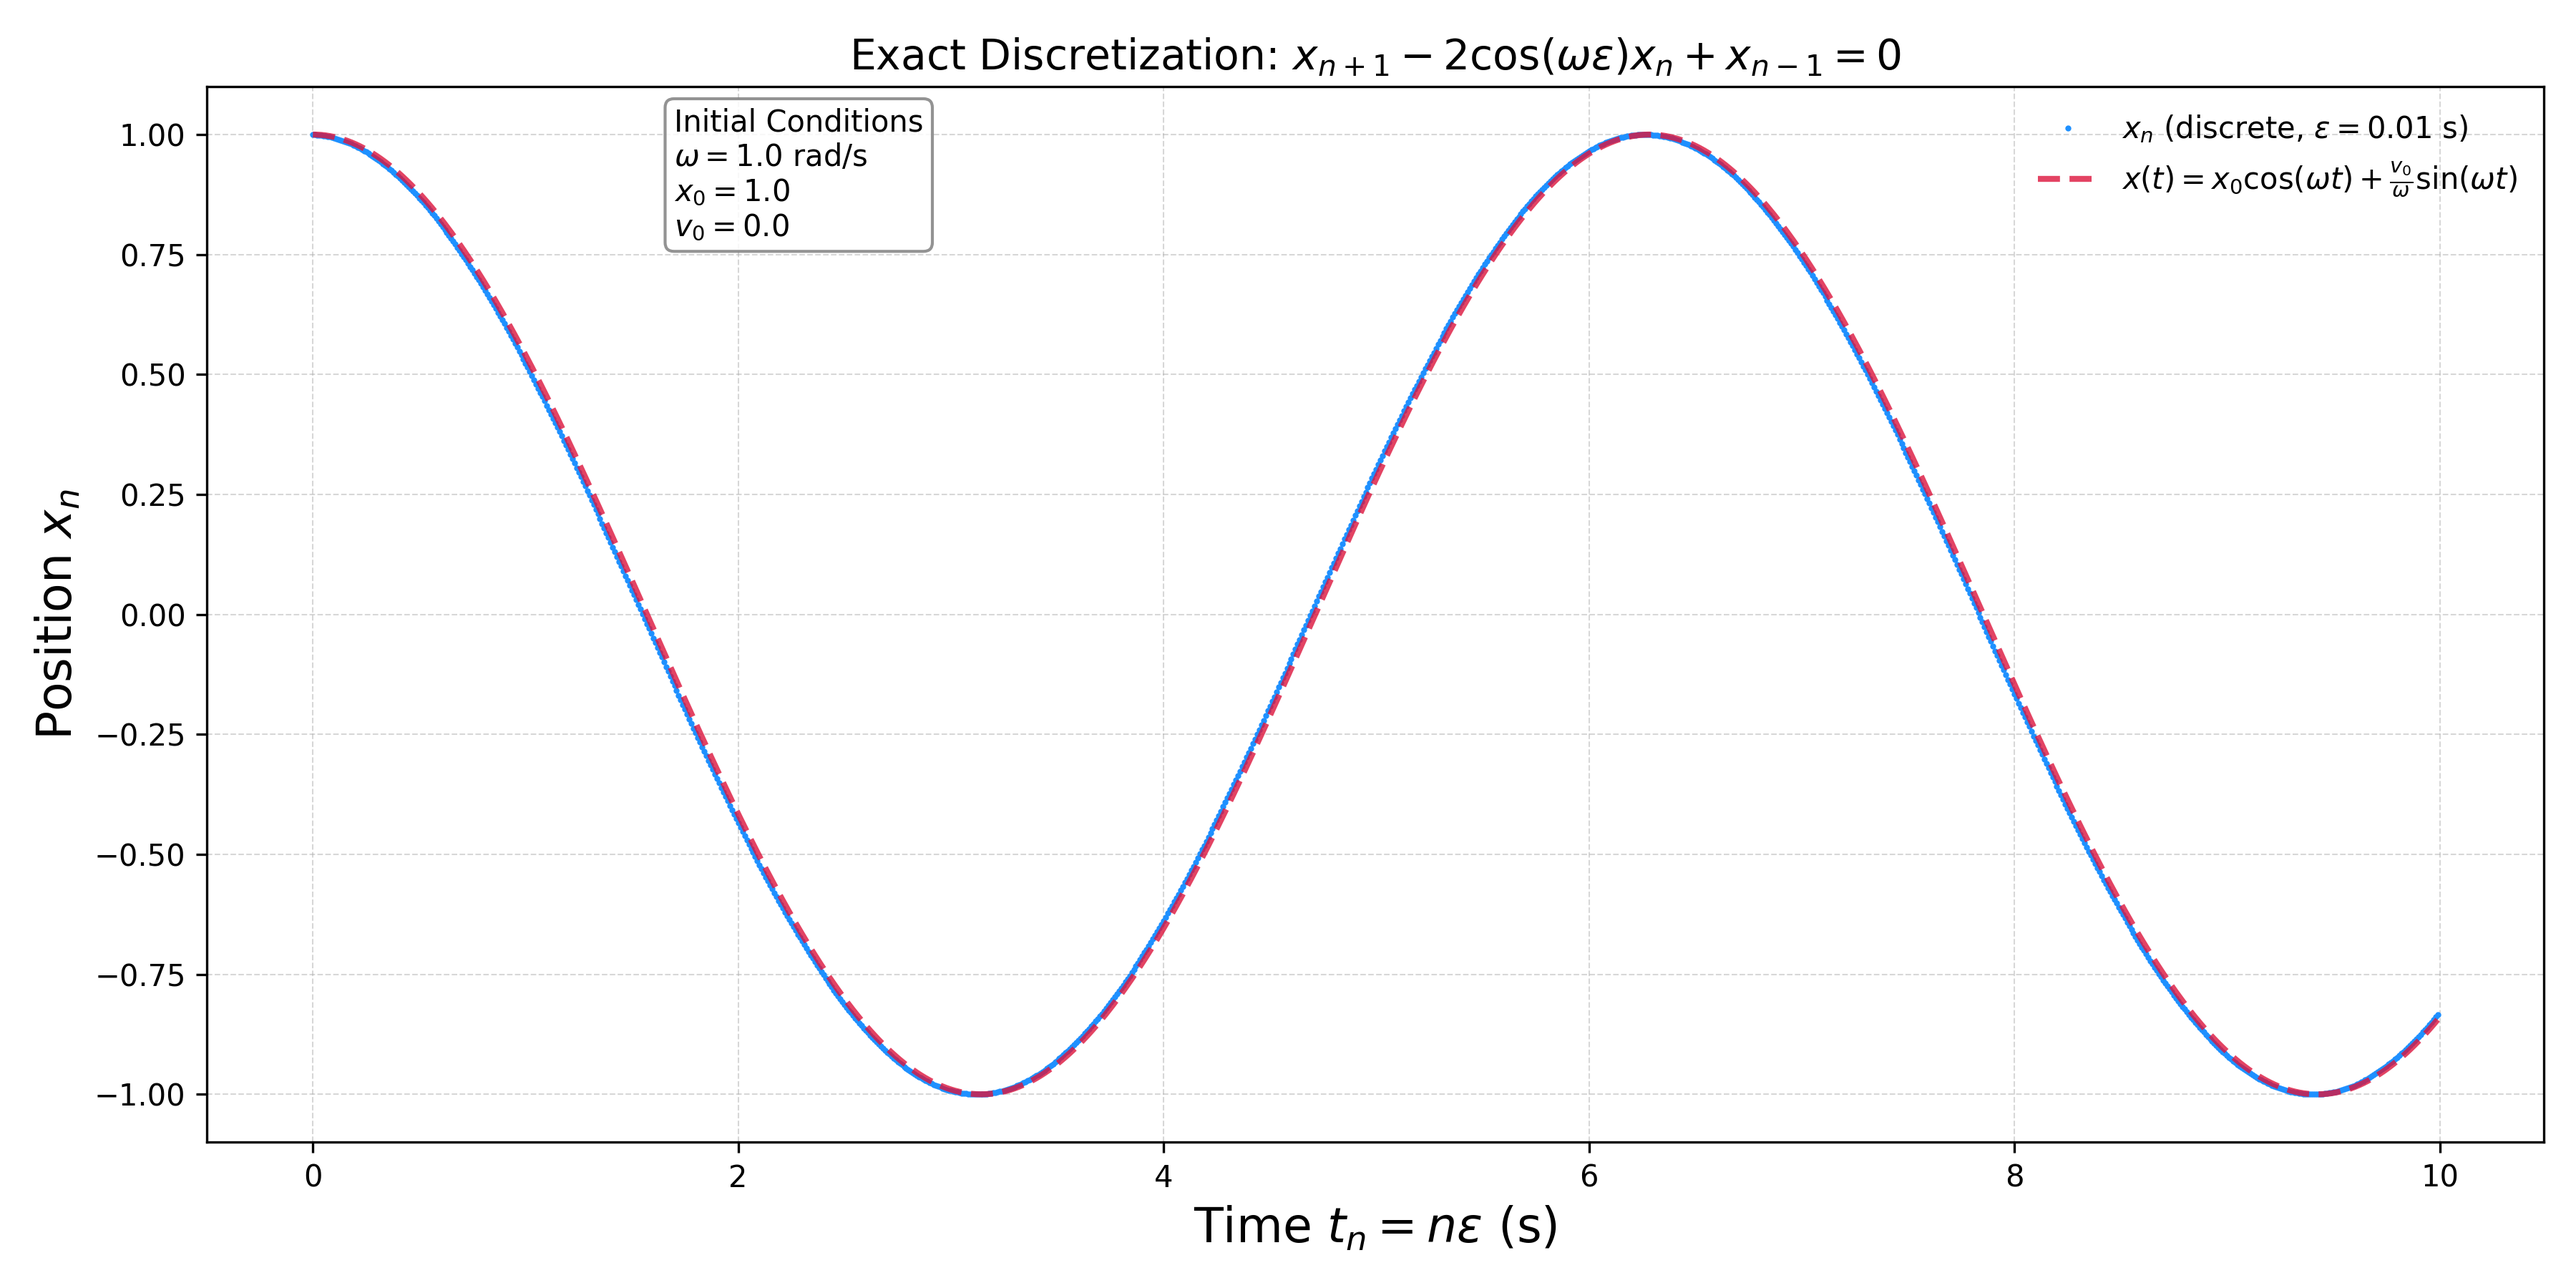
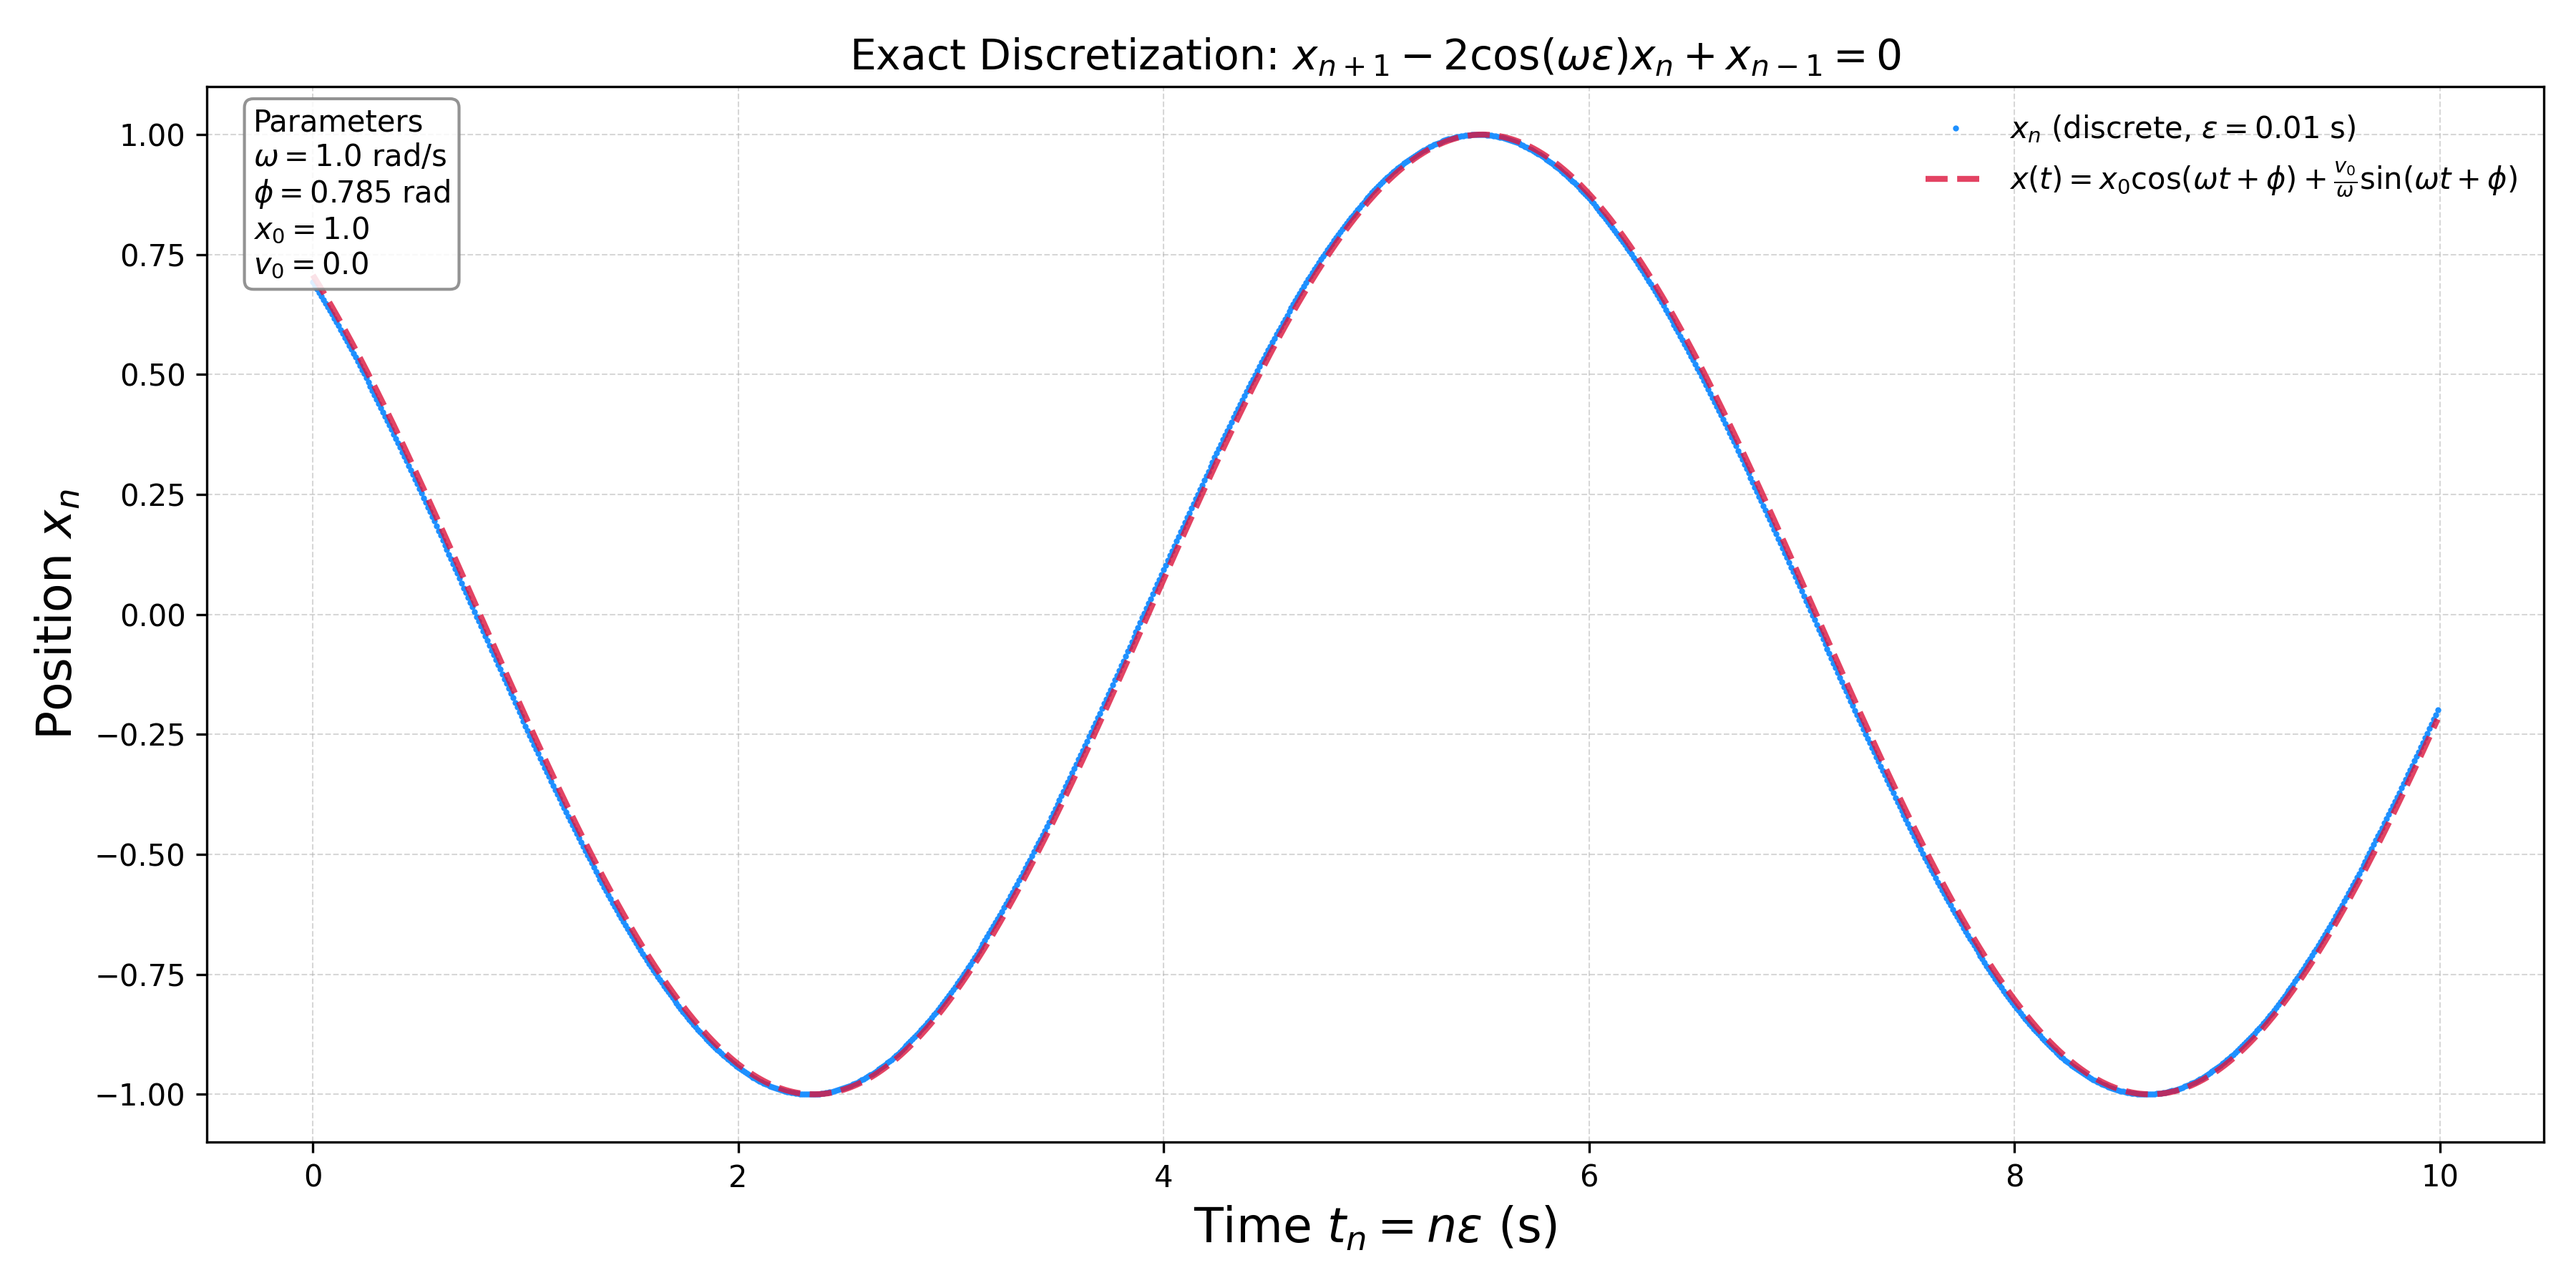
update

diff --git a/exact_discretization_papers/harmonic_oscillator.py b/exact_discretization_papers/harmonic_oscillator.py
@@ -16,20 +16,24 @@ import matplotlib.pyplot as plt
 class SKAHarmonicOscillator:
     """Generate real-time harmonic oscillator data for SKA framework"""
     
-    def __init__(self, omega=1.0, epsilon=0.01, x0=1.0, v0=0.0):
+    def __init__(self, omega=1.0, epsilon=0.01, x0=1.0, v0=0.0, phi=0.0):
         """
         Args:
             omega: Angular frequency ω
             epsilon: Time step ε  
             x0: Initial position
             v0: Initial velocity
+            phi: Phase φ (radians)
         """
         self.omega = omega
         self.epsilon = epsilon
+        self.phi = phi
+        self.x0 = x0
+        self.v0 = v0
         
-        # Initialize using analytical solution
-        self.x_prev = x0  # x_{n-1}
-        self.x_curr = x0 * np.cos(omega * epsilon) + (v0 / omega) * np.sin(omega * epsilon)  # x_n
+        # Initialize using analytical solution with phase
+        self.x_prev = x0 * np.cos(phi) + (v0 / omega) * np.sin(phi)  # x_{n-1} at t=0
+        self.x_curr = x0 * np.cos(omega * epsilon + phi) + (v0 / omega) * np.sin(omega * epsilon + phi)  # x_n at t=ε
         
         self.step_count = 1
         self.start_time = time.time()
@@ -88,13 +92,15 @@ def main():
     epsilon = 0.01   # Time step (s)
     x0 = 1.0         # Initial position
     v0 = 0.0         # Initial velocity
+    phi = np.pi/4    # Phase (radians)
     
     print(f"ω = {omega} rad/s")
     print(f"ε = {epsilon} s")
+    print(f"φ = {phi:.3f} rad ({phi*180/np.pi:.1f}°)")
     print(f"Initial: x₀ = {x0}, v₀ = {v0}")
     
     # Create oscillator
-    oscillator = SKAHarmonicOscillator(omega, epsilon, x0, v0)
+    oscillator = SKAHarmonicOscillator(omega, epsilon, x0, v0, phi)
     
     # Generate data
     print(f"\nGenerating data stream...")
@@ -125,6 +131,7 @@ def main():
             "epsilon": epsilon,
             "initial_position": x0,
             "initial_velocity": v0,
+            "phase": phi,
             "total_points": len(data_points),
             "discretization": "exact_ciesliński"
         },
@@ -160,9 +167,9 @@ def main():
         label=fr'$x_n$ (discrete, $\epsilon={epsilon}$ s)'
     )
 
-    # Plot analytical solution
+    # Plot analytical solution with phase
     t_analytical = np.linspace(0, max(discrete_times), 1000)
-    x_analytical = x0 * np.cos(omega * t_analytical) + (v0 / omega) * np.sin(omega * t_analytical)
+    x_analytical = oscillator.x0 * np.cos(oscillator.omega * t_analytical + oscillator.phi) + (oscillator.v0 / oscillator.omega) * np.sin(oscillator.omega * t_analytical + oscillator.phi)
     plt.plot(
         t_analytical,
         x_analytical,
@@ -170,7 +177,7 @@ def main():
         color='crimson',
         linewidth=2,
         alpha=0.8,
-        label=r'$x(t) = x_0 \cos(\omega t) + \frac{v_0}{\omega} \sin(\omega t)$'
+        label=r'$x(t) = x_0 \cos(\omega t + \phi) + \frac{v_0}{\omega} \sin(\omega t + \phi)$'
     )
 
     # Labels and legend
@@ -178,23 +185,20 @@ def main():
     plt.ylabel(r'Position $x_n$', fontsize=16)
     plt.title(r'Exact Discretization: $x_{n+1} - 2\cos(\omega \epsilon)x_n + x_{n-1} = 0$', fontsize=14)
     plt.grid(True, linestyle='--', linewidth=0.5, alpha=0.5)
-    plt.legend(fontsize=10, loc='upper right')
-
-    # Info box
 
     # Main legend for curves (no box)
-    # Main legend for curve labels (unboxed)
     plt.legend(fontsize=10, loc='upper right', frameon=False)
 
-    # Boxed legend for initial conditions only
+    # Boxed legend for initial conditions
     initial_conditions = (
-        "Initial Conditions\n"
+        "Parameters\n"
         rf"$\omega = {omega}$ rad/s" + "\n"
+        rf"$\phi = {phi:.3f}$ rad" + "\n"
         rf"$x_0 = {x0}$" + "\n"
         rf"$v_0 = {v0}$"
     )
     plt.gca().text(
-        0.2, 0.98,
+        0.02, 0.98,
         initial_conditions,
         transform=plt.gca().transAxes,
         fontsize=10,
@@ -203,13 +207,10 @@ def main():
         usetex=False  # Change to True if full LaTeX rendering is configured
     )
 
-
-
     plt.tight_layout()
     plt.savefig('harmonic_oscillator.png', dpi=300)  # High-quality output
     plt.show()
 
-    
     print("Ready for SKA framework!")
 
 
@@ -217,7 +218,7 @@ def real_time_demo():
     """Real-time streaming demo"""
     print("Real-time SKA data stream (press Ctrl+C to stop)")
     
-    oscillator = SKAHarmonicOscillator(omega=2.0, epsilon=0.05)
+    oscillator = SKAHarmonicOscillator(omega=2.0, epsilon=0.05, phi=np.pi/6)
     
     try:
         for timestamp, amplitude, frequency in oscillator.generate_stream():
@@ -231,5 +232,3 @@ if __name__ == "__main__":
     
     # Uncomment for real-time demo:
     # real_time_demo()
-  
-   
